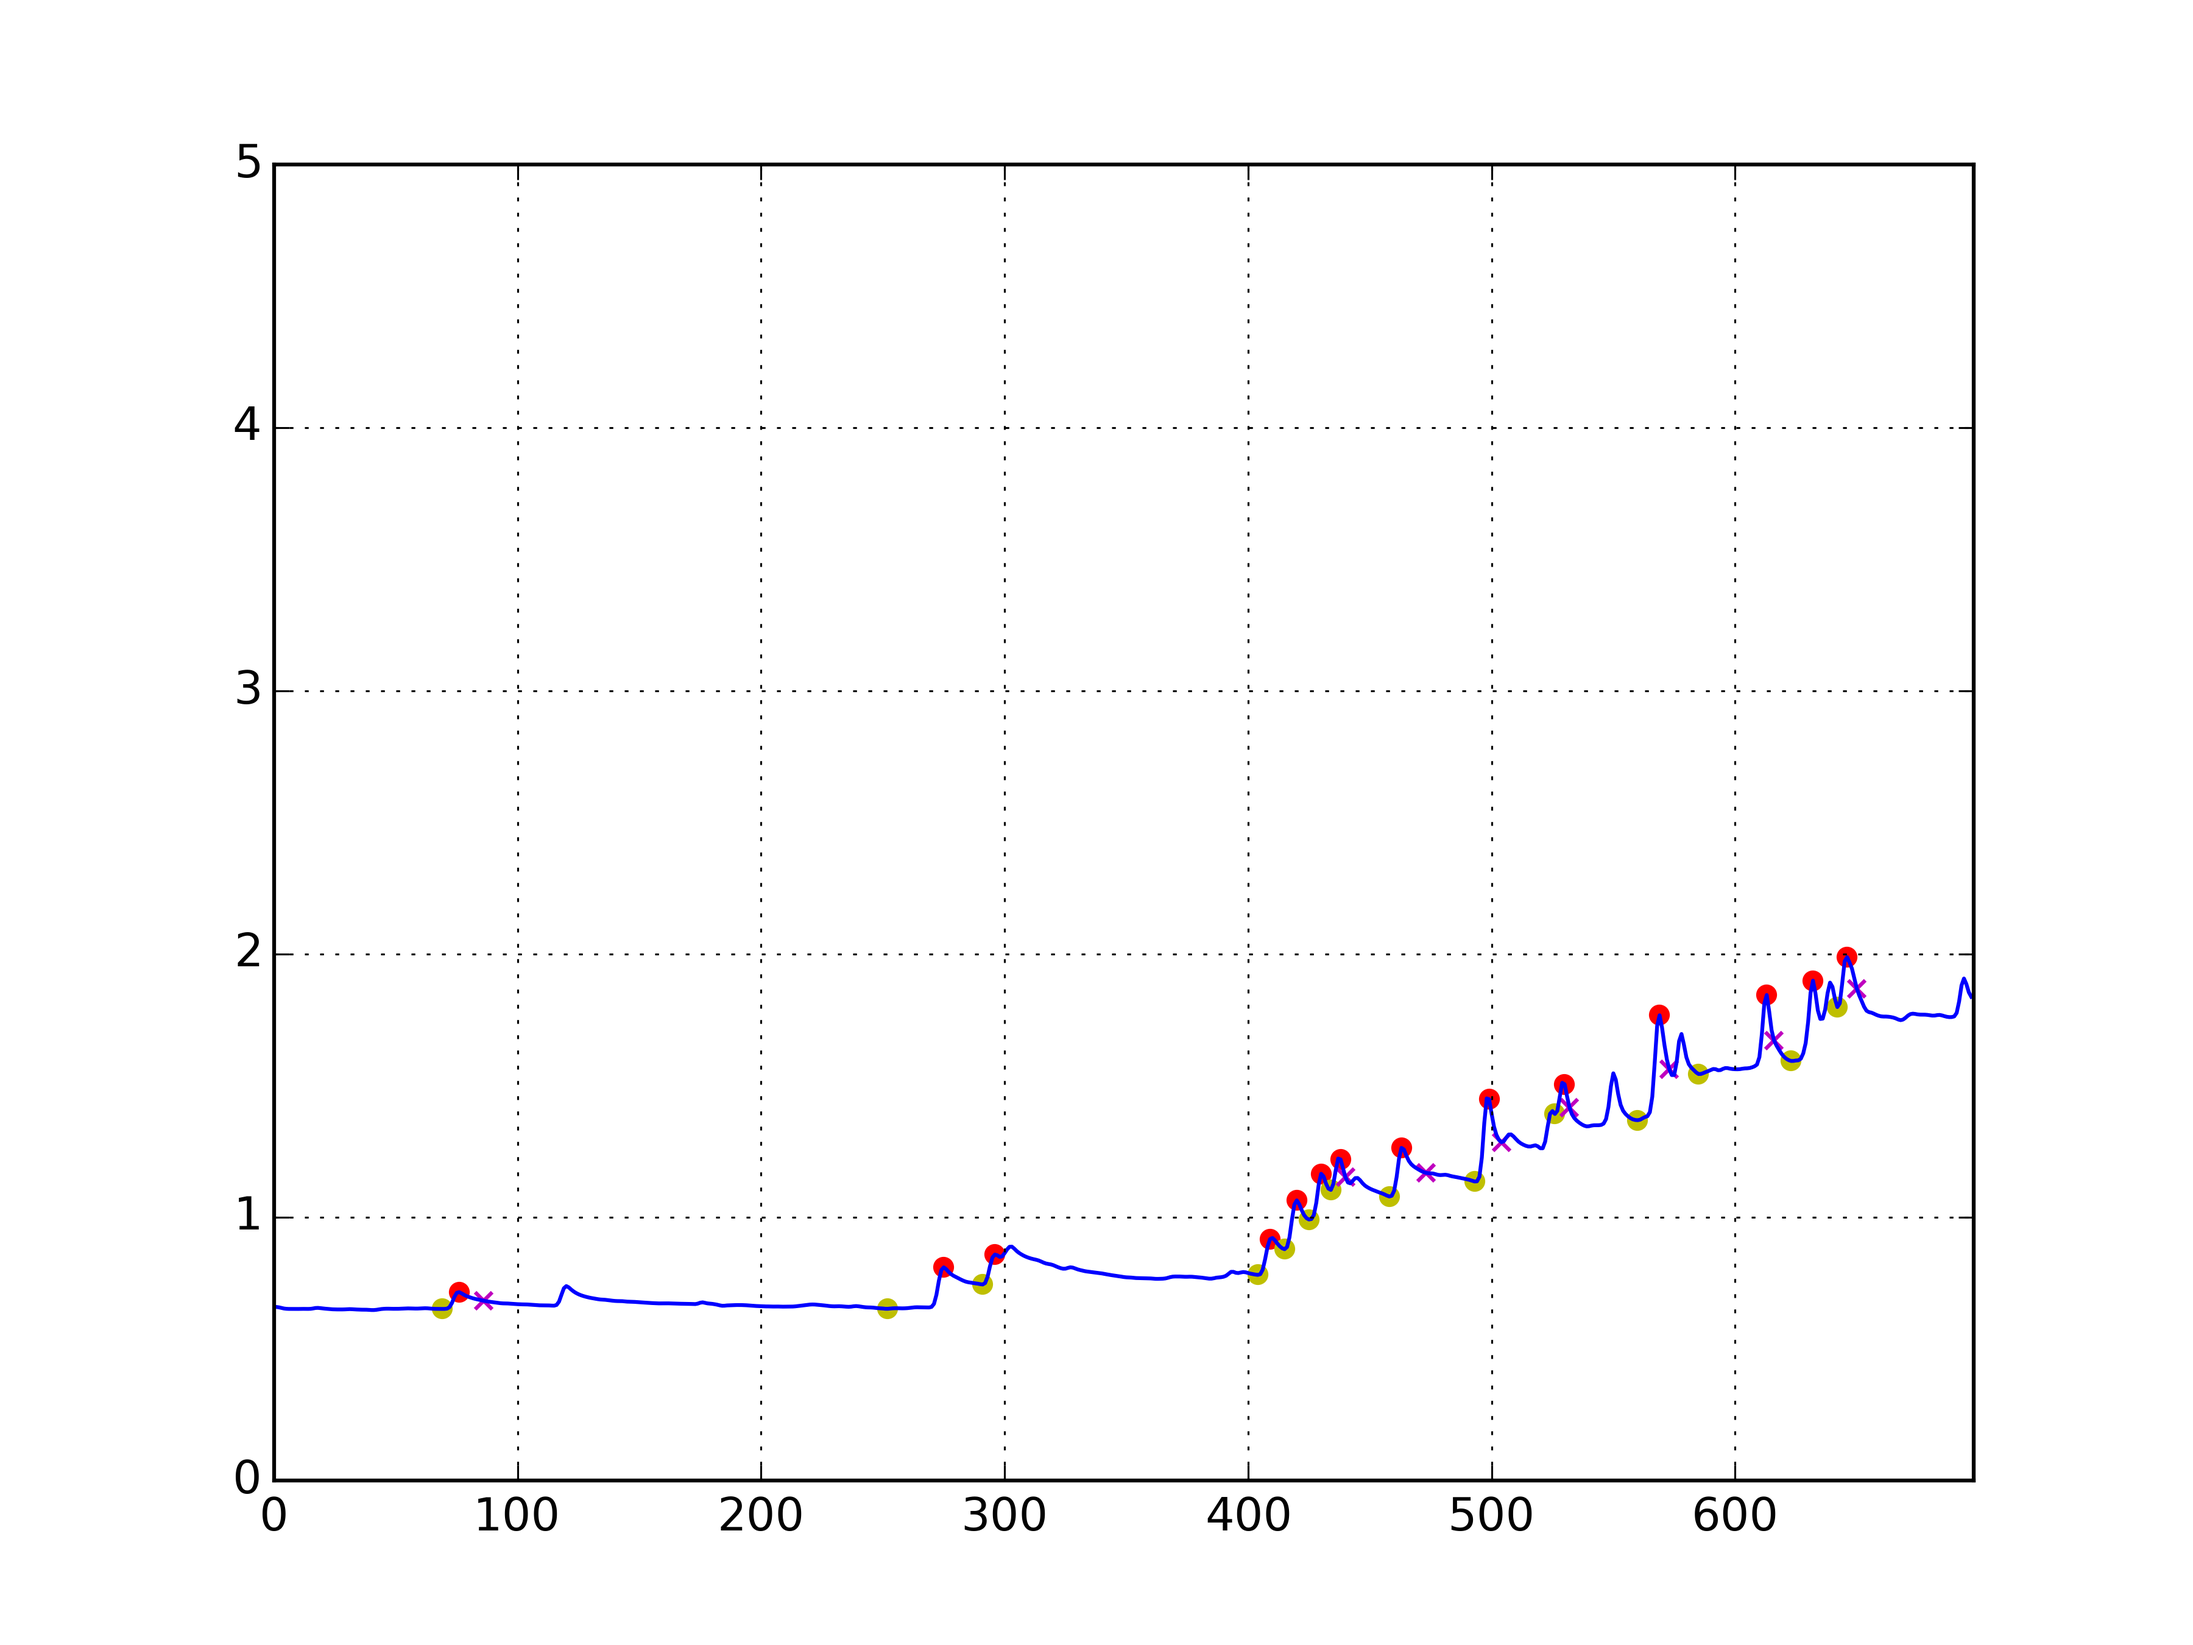
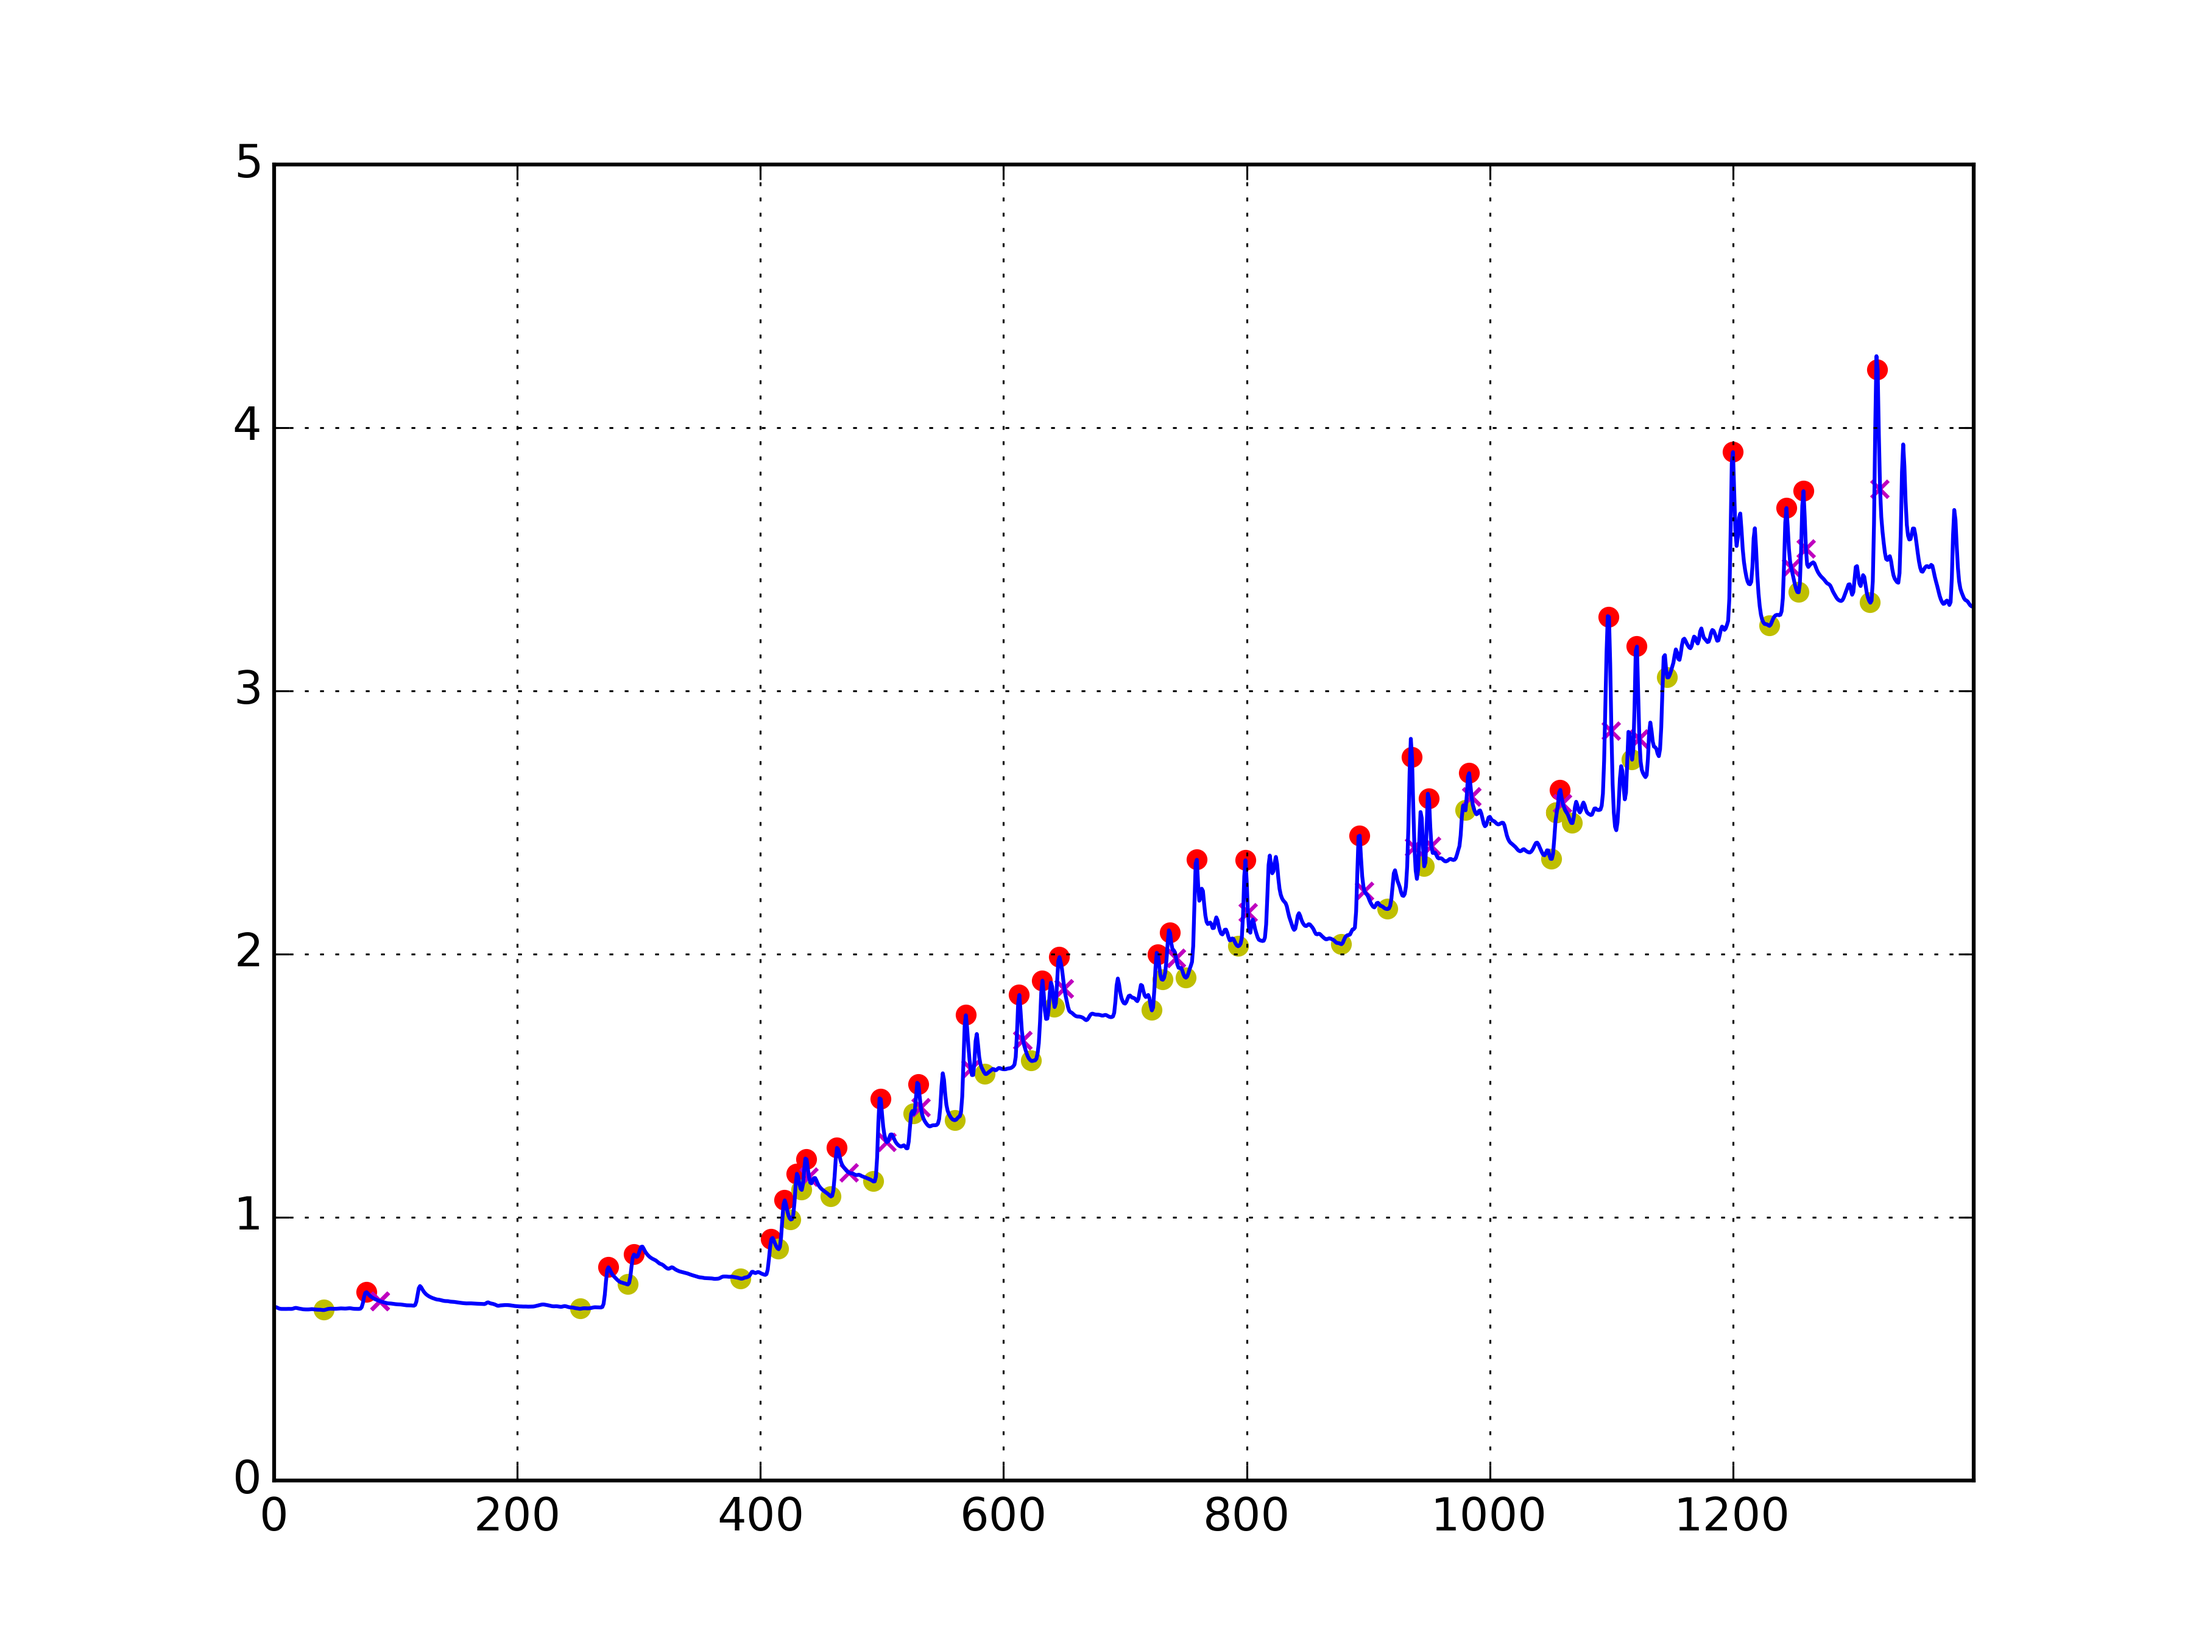
well packaged

diff --git a/HalfRecoveryTimeDetector.py b/HalfRecoveryTimeDetector.py
@@ -31,7 +31,7 @@ class HalfRecoveryTimeDetector:
 					_segmentToSearchRaisingTime = self._gaussianData[_limLeft:_limRight].tolist()
 					_raisingPoint = _segmentToSearchRaisingTime.index(min(_segmentToSearchRaisingTime))
 					_c = self._peakind[_i-1] + _raisingPoint
-
+					_peakValue = self._gaussianData[_p]
 					#Calculate amplitude and rising time
 					_amplitude = self._gaussianData[_p] - self._gaussianData[_c]
 					_risingTime = _p - _c
@@ -60,10 +60,11 @@ class HalfRecoveryTimeDetector:
 					_risingTime = _p - _risingTime
 					
 					#Pack everything up!
-					_peakData = [_p,_amplitude,_risingTime,_halfRecoveryTime,_hrtPointValue]
+					_halfRecoveryIndex = _hrtPoint
+					_peakData = { "peakIndex": _p,"peakValue": _peakValue,
+						"risingTimeIndex":_risingTime,"halfRecoveryIndex":_halfRecoveryIndex,
+						"halfRecoveryValue":_hrtPointValue}
 					self._peaks.append(_peakData)
-					#print "HRTPeak: #%f, Amplitude: %f, Raise Time: %f, HRT: %s, ValAtHRT:%s" \
-					#	%(_p,_amplitude,_risingTime,str(_halfRecoveryTime),str(_hrtPointValue))
 			else:
 				pass
 	def plot(self,figname):
@@ -78,11 +79,11 @@ class HalfRecoveryTimeDetector:
 
 		for _p in self._peaks:
 			#scatter rising point and peak
-			ax.scatter(  _p[0] , self._gaussianData[_p[0]],color='r' )
-			ax.scatter(  _p[2],self._gaussianData[_p[2]],color='y')
+			plt.scatter(  _p["peakIndex"] , self._gaussianData[_p["peakIndex"]],color='r' )
+			plt.scatter(  _p["risingTimeIndex"],self._gaussianData[_p["risingTimeIndex"]],color='y')
 			#scatter the HRT
-			if _p[3] != None:
-				ax.scatter(  int(_p[3])  , self._gaussianData[ int(_p[3]) ],color='m',marker="x")
+			if _p["halfRecoveryIndex"] != None:
+				plt.scatter(  int(_p["halfRecoveryIndex"])  , self._gaussianData[ int(_p["halfRecoveryIndex"]) ],color='m',marker="x")
 
 		#save it! Because.. humans
 		plt.savefig(figname,dpi=450)

diff --git a/pilot.py b/pilot.py
@@ -306,7 +306,7 @@ if (__name__ == "__main__"):
         s = session("piloto_1_t1/1430265036998/")
 	#plotGSR("piloto_1_t1","T1",s,_limy=[0.0,5.0],_plotEach=60)
 	#aplotGSR("piloto_1_t1","T1_Zoom",s,_limy=[0.0,1.0],_limx=[350,450],_plotEach=60)
-	_gsrData = s.groupBySec(s._dataGSR,True,False)[100:800]
+	_gsrData = s.groupBySec(s._dataGSR,True,False)[100:1500]
 	htr = HalfRecoveryTimeDetector(_gsrData[2:])
 	htr.plot("peaks.png")
 	for _peak in htr._peaks:
